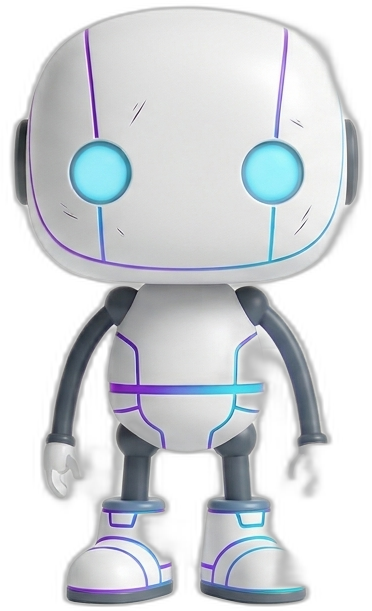
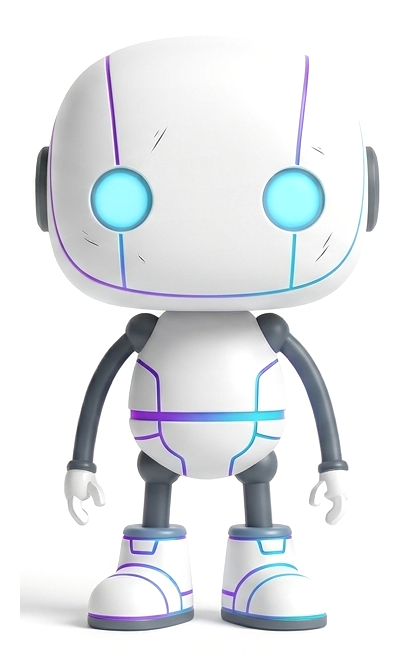
Fundo branco nas telas de acesso + robo sem manchas
- Login e Landing com fundo branco; caixa de acesso mantem o tom periwinkle
- Titulo CFO Finance Intelligence em gradiente roxo -> azul -> ciano
- Logo Sparkles passa a usar o gradiente da marca (antes era vidro translucido,
  invisivel sobre branco)
- Insight do dia, tagline e rotulos ajustados para contraste sobre branco
- cfobot.png refeito: o fundo de estudio foi modelado por polinomio e removido,
  depois chaveado por branco (alpha = 255-min(C)). Recompoe sobre branco com
  erro 0.00 nivel, sem retangulo e sem buraco na cabeca.

Claude-Session: https://claude.ai/code/session_01Vp5h6h3KvwEiXmAHfi86J5

diff --git a/src/components/PasswordGate.jsx b/src/components/PasswordGate.jsx
@@ -49,7 +49,7 @@ export default function PasswordGate({ children }) {
     // Não voltar pra altura/largura fixa — estoura de novo em tela baixa.
     <div
       className="h-screen overflow-hidden flex items-center justify-center px-4 py-6"
-      style={{ background: "linear-gradient(160deg,#A78BFA 0%,#60A5FA 55%,#67E8F9 100%)" }}
+      style={{ background: "#ffffff" }}
     >
       <div className="w-full max-w-sm h-full flex flex-col items-center justify-center gap-5">
 
@@ -57,20 +57,30 @@ export default function PasswordGate({ children }) {
         <div className="flex flex-col items-center gap-2 text-center shrink-0">
           <div
             className="w-16 h-16 rounded-3xl flex items-center justify-center"
-            style={{ background: "rgba(255,255,255,0.2)", backdropFilter: "blur(8px)", boxShadow: "0 8px 32px rgba(0,0,0,0.2)" }}
+            style={{ background: "linear-gradient(140deg,#A78BFA 0%,#60A5FA 55%,#67E8F9 100%)", boxShadow: "0 10px 30px rgba(96,165,250,0.35)" }}
           >
             <Sparkles size={30} className="text-white" />
           </div>
           <div>
-            <div className="text-white font-extrabold text-2xl tracking-tight">{APP_NAME}</div>
-            <div className="text-white/70 text-sm mt-1">{APP_TAGLINE}</div>
+            <div
+              className="font-extrabold text-2xl tracking-tight"
+              style={{
+                background: "linear-gradient(90deg,#A78BFA 0%,#60A5FA 55%,#22D3EE 100%)",
+                WebkitBackgroundClip: "text",
+                backgroundClip: "text",
+                color: "transparent",
+              }}
+            >
+              {APP_NAME}
+            </div>
+            <div className="text-slate-500 text-sm mt-1">{APP_TAGLINE}</div>
           </div>
         </div>
 
         {/* Card de login */}
         <div
           className="w-full rounded-2xl p-5 flex flex-col gap-3 shrink-0"
-          style={{ background: "rgba(255,255,255,0.15)", backdropFilter: "blur(16px)", border: "1px solid rgba(255,255,255,0.3)", boxShadow: "0 8px 40px rgba(0,0,0,0.2)" }}
+          style={{ background: "linear-gradient(160deg,#9B9CFB 0%,#86B0FB 100%)", border: "1px solid rgba(255,255,255,0.45)", boxShadow: "0 10px 34px rgba(96,165,250,0.35)" }}
         >
           {semSenhaConfigurada ? (
             <div className="flex items-start gap-2 text-sm text-amber-200 bg-amber-900/30 border border-amber-400/40 rounded-lg px-3 py-2">
@@ -93,7 +103,7 @@ export default function PasswordGate({ children }) {
                   fontSize: "1rem",
                 }}
               />
-              {erro && <span className="text-sm text-red-200 font-medium">Senha incorreta.</span>}
+              {erro && <span className="text-sm font-semibold" style={{ color: "#7F1D1D" }}>Senha incorreta.</span>}
               <button
                 type="submit"
                 className="w-full py-3 rounded-xl text-base font-bold transition-all duration-150 hover:scale-[1.02] active:scale-[0.98]"
@@ -111,10 +121,10 @@ export default function PasswordGate({ children }) {
           src="/cfobot.png"
           alt="CFO Bot"
           className="flex-1 min-h-0 w-auto max-w-full object-contain"
-          style={{ maxHeight: 420, filter: "drop-shadow(0 8px 28px rgba(0,0,0,0.2))" }}
+          style={{ maxHeight: 420 }}
         />
 
-        <p className="text-white/40 text-xs text-center shrink-0">
+        <p className="text-slate-400 text-xs text-center shrink-0">
           Proteção temporária — substituída por autenticação Supabase em breve.
         </p>
       </div>

diff --git a/src/App.jsx b/src/App.jsx
@@ -199,11 +199,11 @@ function IconGroupGrid({ group, usage, saude, onSelect, activeId, compact = fals
 // Faixa "Insight do dia" — frase curta derivada localmente do Resumo
 // Executivo (mesmos alertas do Dashboard), sem chamada externa.
 function InsightDoDia({ texto, tone }) {
-  const iconColor = tone === "red" ? "#fca5a5" : tone === "amber" ? "#fcd34d" : "#6ee7b7";
+  const iconColor = tone === "red" ? "#DC2626" : tone === "amber" ? "#D97706" : "#059669";
   return (
-    <div style={{ display: "flex", alignItems: "center", gap: 10, background: "rgba(255,255,255,0.18)", backdropFilter: "blur(12px)", border: "1px solid rgba(255,255,255,0.3)", borderRadius: 12, padding: "10px 16px" }}>
+    <div style={{ display: "flex", alignItems: "center", gap: 10, background: "#F8FAFF", border: "1px solid #DBE4FF", borderRadius: 12, padding: "10px 16px" }}>
       <Lightbulb size={18} style={{ color: iconColor, flexShrink: 0 }} />
-      <span style={{ fontSize: 16, color: "rgba(255,255,255,0.92)", lineHeight: 1.4 }}>{texto}</span>
+      <span style={{ fontSize: 16, color: "#334155", lineHeight: 1.4 }}>{texto}</span>
     </div>
   );
 }
@@ -232,19 +232,29 @@ function LandingPage({ onSelect, onLogout, resumo, saude, usage }) {
   }, [saude]);
 
   return (
-    <div className="min-h-screen flex flex-col" style={{ background: "linear-gradient(160deg,#A78BFA 0%,#60A5FA 55%,#67E8F9 100%)" }}>
+    <div className="min-h-screen flex flex-col" style={{ background: "#ffffff" }}>
       <LogoutButton onLogout={onLogout} />
 
       {/* ── Header ── */}
       <div className="flex flex-col items-center pt-10 pb-6 px-6">
         <div
           className="w-20 h-20 rounded-3xl flex items-center justify-center mb-4"
-          style={{ background: "rgba(255,255,255,0.2)", backdropFilter: "blur(8px)", boxShadow: "0 8px 32px rgba(0,0,0,0.2)" }}
+          style={{ background: "linear-gradient(140deg,#A78BFA 0%,#60A5FA 55%,#67E8F9 100%)", boxShadow: "0 10px 30px rgba(96,165,250,0.35)" }}
         >
           <Sparkles size={36} className="text-white" />
         </div>
-        <div className="font-extrabold text-4xl text-white tracking-tight">{APP_NAME}</div>
-        <div className="text-base mt-2" style={{ color: "rgba(255,255,255,0.75)" }}>{t("chrome.tagline")}</div>
+        <div
+          className="font-extrabold text-4xl tracking-tight"
+          style={{
+            background: "linear-gradient(90deg,#A78BFA 0%,#60A5FA 55%,#22D3EE 100%)",
+            WebkitBackgroundClip: "text",
+            backgroundClip: "text",
+            color: "transparent",
+          }}
+        >
+          {APP_NAME}
+        </div>
+        <div className="text-base mt-2 text-slate-500">{t("chrome.tagline")}</div>
       </div>
 
       {/* Insight */}
@@ -308,9 +318,9 @@ function LandingPage({ onSelect, onLogout, resumo, saude, usage }) {
         <img
           src="/cfobot.png"
           alt="CFO Bot"
-          style={{ width: 340, objectFit: "contain", filter: "drop-shadow(0 8px 28px rgba(0,0,0,0.2))" }}
+          style={{ width: 340, maxWidth: "100%", maxHeight: "42vh", objectFit: "contain" }}
         />
-        <div className="text-xs font-semibold tracking-widest uppercase" style={{ color: "rgba(255,255,255,0.5)" }}>CFO Bot</div>
+        <div className="text-xs font-semibold tracking-widest uppercase text-slate-400">CFO Bot</div>
       </div>
     </div>
   );
